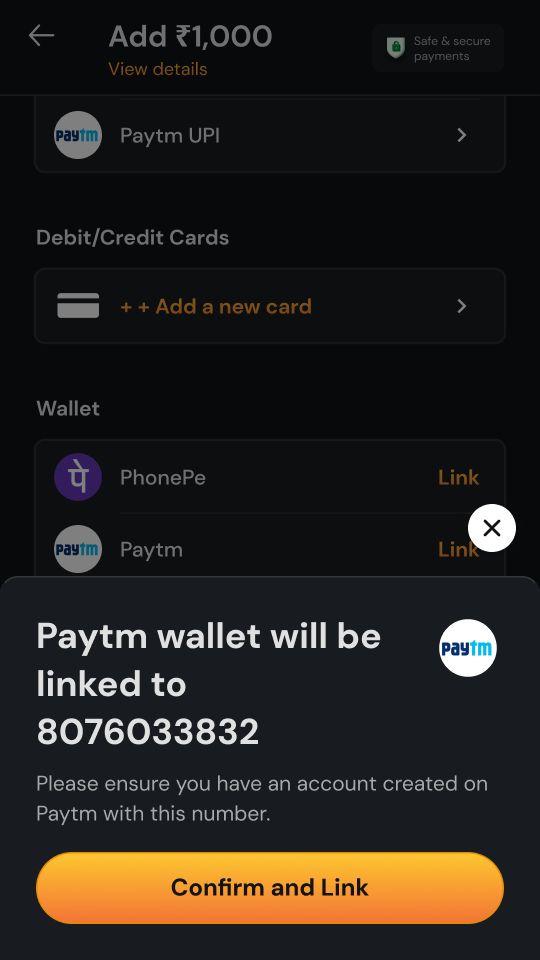
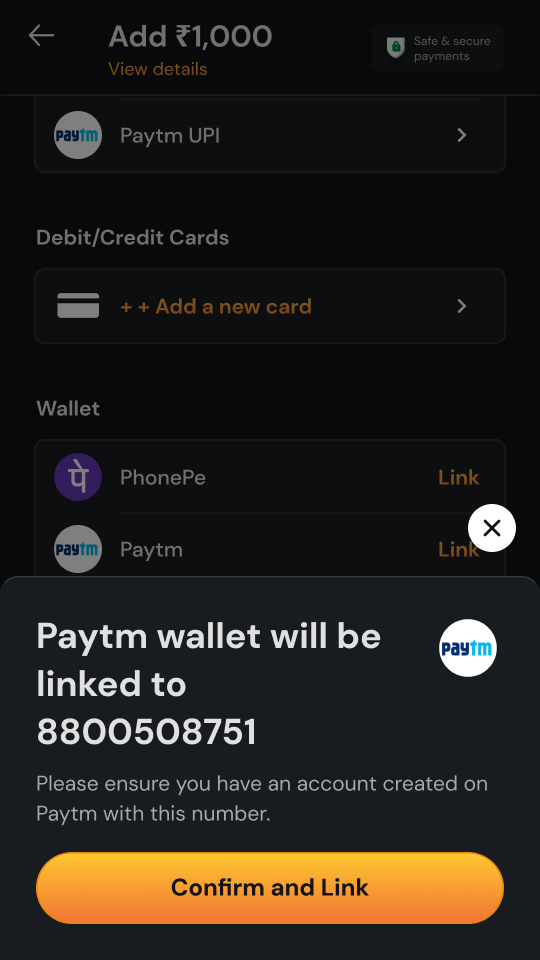
Payments: same phone number through the wallet flow; success rate 92%+
The Paytm link sheet now shows 8800508751, matching the OTP screens.
The success-rate card is corrected from 99% to 92%+.

Changed region(s): [[0.1185, 0.75, 0.4741, 0.7812]]

diff --git a/projects/add-cash.html b/projects/add-cash.html
@@ -584,7 +584,7 @@ html:not(.js) .reveal{opacity:1;transform:none}
     </div>
     <div class="ac-wide">
       <div class="ac-strip reveal" style="--n:5;--w:180px">
-        <figure><img class="ac-shot" src="../assets/img/add-cash/wallet-number.png?v=2" width="540" height="960" loading="lazy" decoding="async" alt="A sheet confirming which phone number the Paytm wallet will be linked to."><figcaption>Which number</figcaption></figure>
+        <figure><img class="ac-shot" src="../assets/img/add-cash/wallet-number.png?v=3" width="540" height="960" loading="lazy" decoding="async" alt="A sheet confirming which phone number the Paytm wallet will be linked to."><figcaption>Which number</figcaption></figure>
         <figure><img class="ac-shot" src="../assets/img/add-cash/wallet-otp.png?v=2" width="540" height="960" loading="lazy" decoding="async" alt="Enter the OTP sent to the phone number, with Verify and Link Wallet."><figcaption>Enter the OTP</figcaption></figure>
         <figure><img class="ac-shot" src="../assets/img/add-cash/wallet-otp-limit.png?v=2" width="540" height="960" loading="lazy" decoding="async" alt="An error under the OTP field: maximum limit exhausted."><figcaption>Too many tries</figcaption></figure>
         <figure><img class="ac-shot" src="../assets/img/add-cash/wallet-linked.png" width="540" height="960" loading="lazy" decoding="async" alt="The PhonePe Wallet as preferred payment, with the payment from its ₹1,140 balance in progress."><figcaption>Paying from the wallet</figcaption></figure>
@@ -745,7 +745,7 @@ html:not(.js) .reveal{opacity:1;transform:none}
         improvements that followed, this is where it landed.
       </p>
       <ul class="ac-stats">
-        <li class="ac-stat"><b>99%</b><span>payment success rate, across every method</span></li>
+        <li class="ac-stat"><b>92%+</b><span>payment success rate, across every method</span></li>
         <li class="ac-stat"><b>60%+</b><span>of players on the payment page went on to add cash</span></li>
         <li class="ac-stat"><b>70%+</b><span>converted when an offer was on</span></li>
         <li class="ac-stat"><b>50%+</b><span>tried again after a failed payment</span></li>
